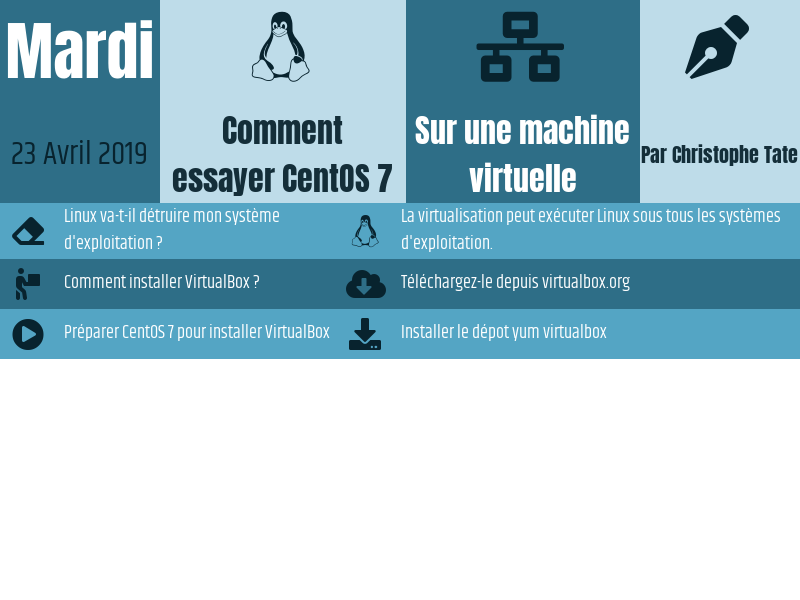
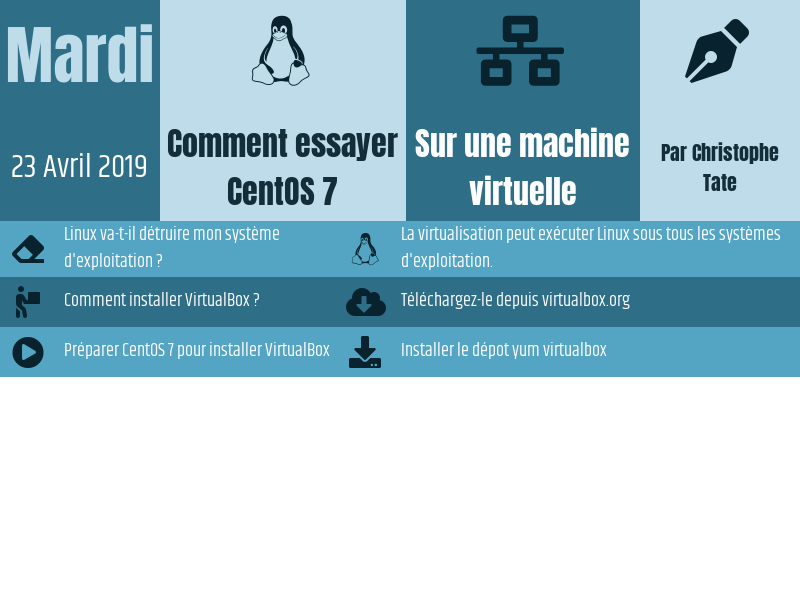
changes

diff --git a/css/site.css b/css/site.css
@@ -219,10 +219,10 @@ em {
 	}
 }
 .recapituler2TableTr1Td1 {
-	font-size:64px;font-family: "Anton", sans-serif;width:20%;
+	color:#BEDCE9;font-size:64px;font-family: "Anton", sans-serif;width:20%;
 }
 .recapituler2TableTr2Td1 {
-	font-size:32px;color:#08232E;font-weight: bold;
+	font-size:32px;color:#fff;font-weight: bold;
 }
 .recapituler2TableTr1Td2 {
 	font-size:70px;
@@ -252,8 +252,8 @@ em {
 	margin: 8px;
 }
 .recapituler3TableTr.odd td {
-	color:#fff;background-color:#54A5C4;
+	color:#fff;background-color:#54A5C4;font-weight:bold;
 }
 .recapituler3TableTr.even td {
-	color:#fff;background-color:#2E6E87;
+	color:#fff;background-color:#2E6E87;font-weight:bold;
 }
